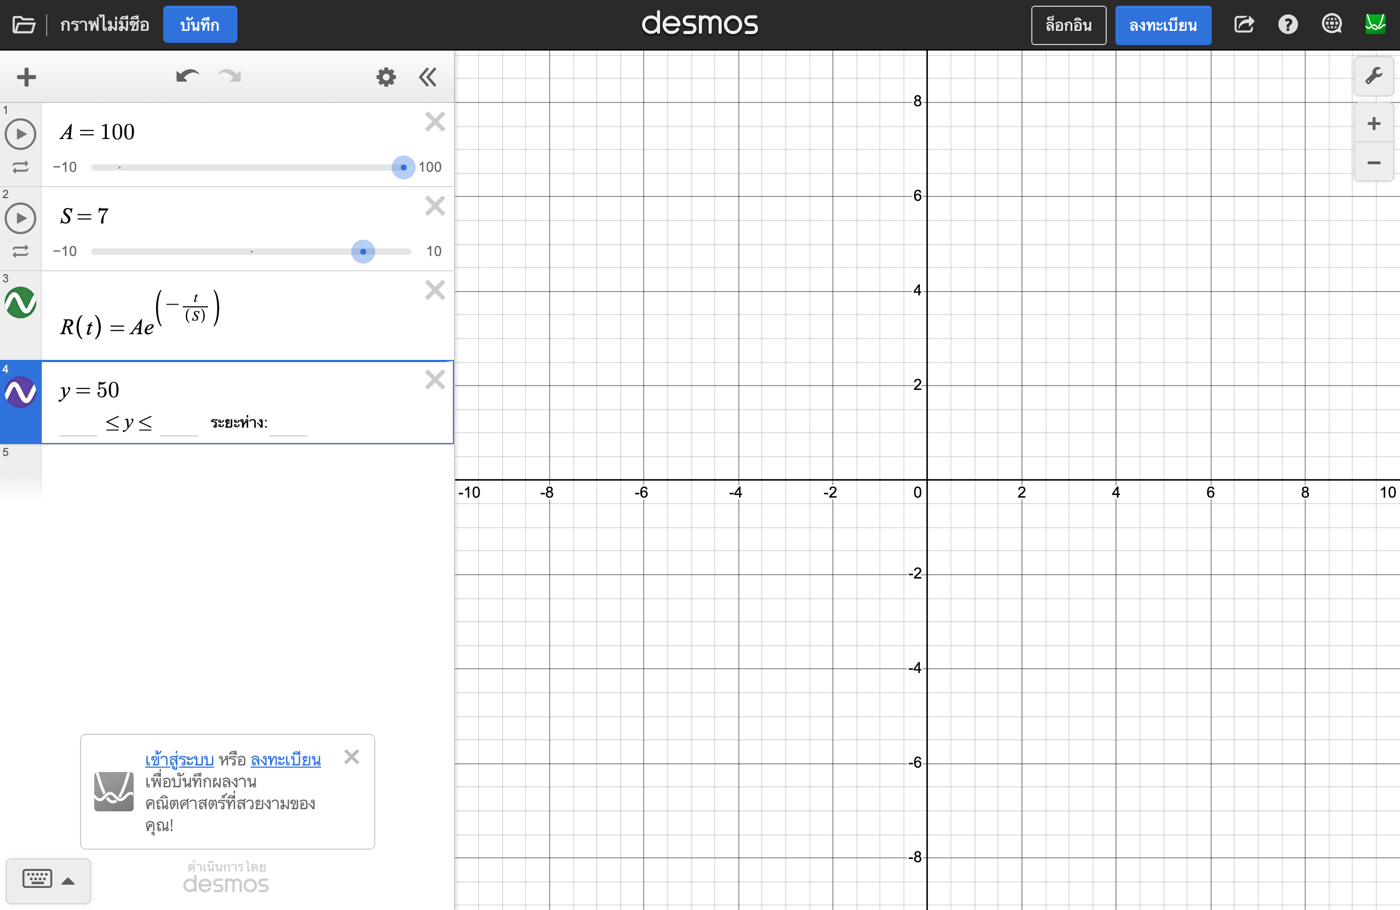
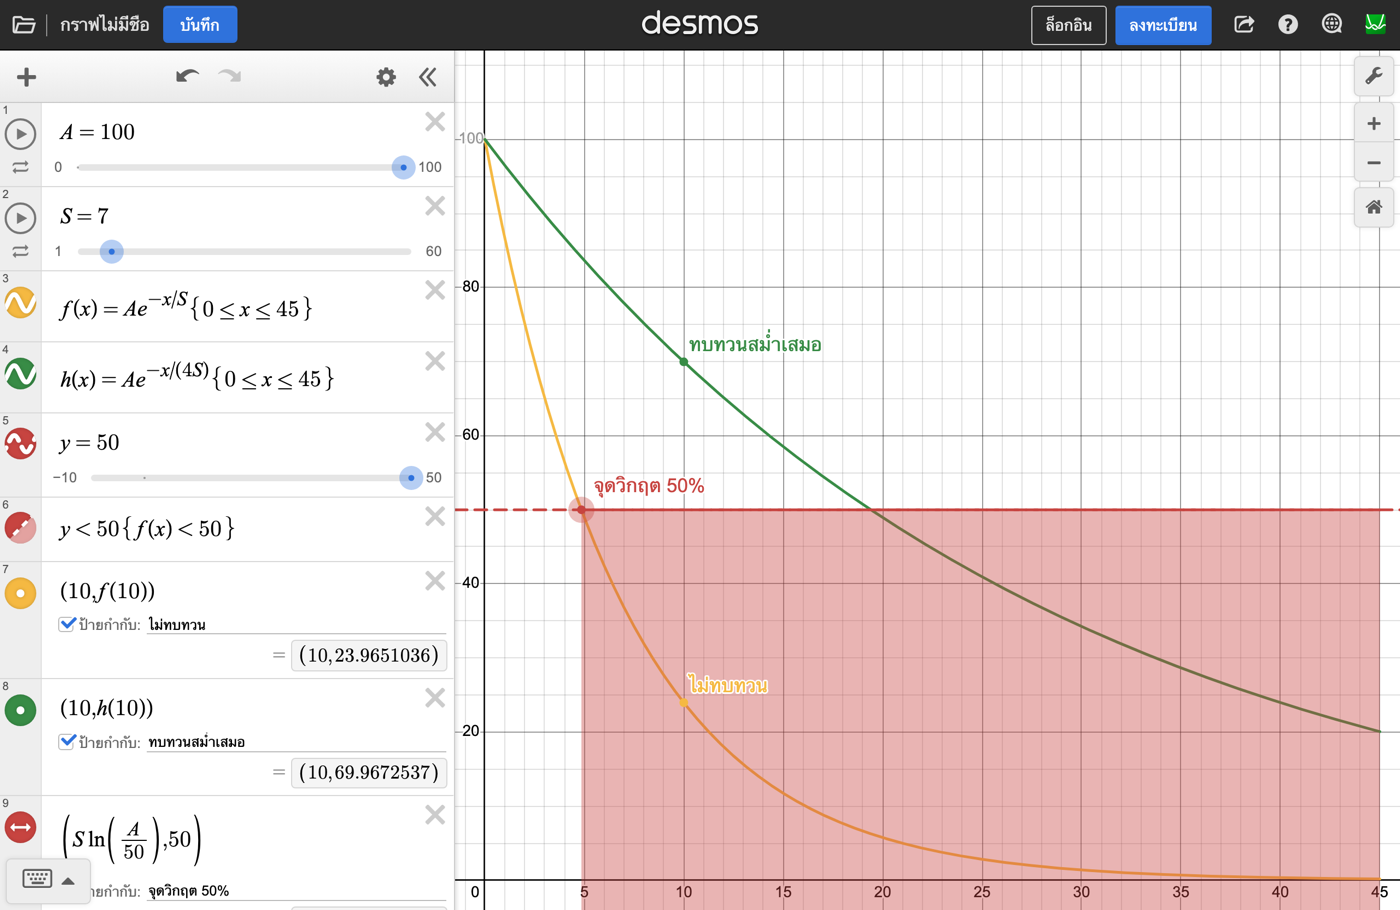
lesson/desmos: better graph — two curves (review vs no-review), shaded crisis zone, labeled 50% point; re-captured via Desmos API

diff --git a/src/lessons.ts b/src/lessons.ts
@@ -41,15 +41,16 @@ export const lessons = [
     heading: 'กราฟอธิบายความสัมพันธ์ทางคณิตศาสตร์',
     body: 'โจทย์: สื่อสาร "เส้นโค้งการลืม" ของนักเรียนตามทฤษฎี Ebbinghaus ให้เป็นกราฟที่เพื่อนเลื่อนค่าดูเองได้จริง — พรอมป์แรกได้กราฟที่ "ถูกต้องแต่ไร้ความหมาย"',
     prompt1: 'สร้างกราฟ y = sin x',
-    prompt2: 'สร้างกราฟเส้นโค้งการลืม R(t) = A·e^(−t/S) กำหนด slider A=100 (ความจำเริ่มต้น %) และ slider S=7 (ความแข็งแรงของความจำ วัน) เพิ่มเส้น y=50 เป็นเส้นวิกฤตการลืม ให้นักเรียนเลื่อน S ดูว่าการทบทวนทำให้กราฟลดช้าลงเพียงใด',
+    prompt2: 'สร้างกราฟเส้นโค้งการลืมใน Desmos: f(x) = A·e^(−x/S) กำหนด slider A=100 (ความจำเริ่มต้น %) และ slider S=7 (ความแข็งแรงของความจำ วัน) เพิ่มเส้นที่สอง h(x) = A·e^(−x/4S) แทนการทบทวนสม่ำเสมอ เส้นประ y=50 เป็นเส้นวิกฤต แรเงาโซนที่ความจำต่ำกว่า 50% และใส่จุด (S·ln(A/50), 50) กำกับว่า "จุดวิกฤต 50%" พร้อมป้ายชื่อเส้นทั้งสอง ให้นักเรียนเลื่อน S ดูว่าการทบทวนทำให้กราฟลดช้าลงเพียงใด',
     asks: [
-      { q: 'อยากได้กราฟที่สื่อ "การลืมบทเรียน" ตามทฤษฎี Ebbinghaus ต้องใช้สมการอะไร?', a: 'ใช้ R(t) = A·e^(−t/S) โดย A คือความจำตอนเรียนจบ (100%) และ S คือความแข็งแรงของความจำเป็นวัน — ยิ่งทบทวน S ยิ่งใหญ่ กราฟยิ่งลดช้า' },
-      { q: 'อยากให้เพื่อนลองเลื่อนค่าดูเองได้ ต้องพิมพ์ยังไงใน Desmos?', a: 'พิมพ์ A=100 และ S=7 ก่อน — Desmos จะสร้าง slider อัตโนมัติ แล้วค่อยนิยามฟังก์ชัน R(t) ที่ใช้ตัวแปรทั้งสอง' },
-      { q: 'แล้วจะชี้ว่า "ต่ำกว่า 50% = วิกฤต" ล่ะ?', a: 'เพิ่มเส้นอ้างอิง y=50 อีกบรรทัด จะเห็นจุดตัด = จำนวนวันก่อนความจำหลุดครึ่งหนึ่ง' },
+      { q: 'อยากได้กราฟที่สื่อ "การลืมบทเรียน" ตามทฤษฎี Ebbinghaus ต้องใช้สมการอะไร?', a: 'ใช้ f(x) = A·e^(−x/S) โดย A คือความจำตอนเรียนจบ (100%) และ S คือความแข็งแรงของความจำเป็นวัน — ยิ่งทบทวน S ยิ่งใหญ่ กราฟยิ่งลดช้า' },
+      { q: 'อยากให้เพื่อนลองเลื่อนค่าดูเองได้ ต้องพิมพ์ยังไงใน Desmos?', a: 'พิมพ์ A=100 และ S=7 ก่อน — Desmos จะสร้าง slider อัตโนมัติ แล้วค่อยนิยามฟังก์ชัน f(x) ที่ใช้ตัวแปรทั้งสอง' },
+      { q: 'แล้วจะชี้ว่า "ต่ำกว่า 50% = วิกฤต" ล่ะ?', a: 'เพิ่มเส้นอ้างอิงเส้นประ y=50 แล้วแรเงาโซน y<50 เฉพาะช่วงที่ f(x)<50 พร้อมจุดตัดที่ x = S·ln(A/50) กำกับว่า "จุดวิกฤต 50%"' },
+      { q: 'อยากเห็นเทียบ "ทบทวน vs ไม่ทบทวน" ในภาพเดียว ทำได้ไหม?', a: 'เพิ่มเส้นที่สอง h(x)=A·e^(−x/4S) แทนการทบทวนสม่ำเสมอ ใส่ป้ายชื่อเส้นทั้งสอง — ช่องห่างระหว่างเส้นที่โตขึ้นตามเวลาคือ "คุณค่าของการทบทวน" ที่เห็นได้ในภาพเดียว' },
     ],
     plate: 'desmos-v2.png',
-    plateAlt: 'หน้าจอ Desmos ภาษาไทยแสดงนิพจน์ A=100, S=7, R(t)=A·e^(−t/S) และเส้น y=50 พร้อมกราฟเส้นโค้งการลืมและ slider สองตัว',
-    plateCap: 'ผลลัพธ์ใหม่ — จับภาพจาก Desmos จริง: เลื่อน S จาก 7 เป็น 30 แล้วเส้นโค้งแบนลงอย่างเห็นได้ชัด',
+    plateAlt: 'หน้าจอ Desmos ภาษาไทยแสดงกราฟเส้นโค้งการลืมสองเส้น ส้ม=ไม่ทบทวน เขียว=ทบทวนสม่ำเสมอ มีเส้นประแดง y=50 โซนแรเงาต่ำกว่า 50% จุดวิกฤต และ slider A, S',
+    plateCap: 'ผลลัพธ์ใหม่ — จาก Desmos จริง: ส้ม=ไม่ทบทวน เขียว=ทบทวนสม่ำเสมอ เส้นประ y=50 พร้อมโซนแรเงาและจุดวิกฤต 50% — เลื่อน slider S เพื่อดูว่าการทบทวนช่วยได้แค่ไหน',
     result1: {
       file: 'desmos-v1.png',
       cap: 'ผลแรก (zero-shot): นิพจน์เดียว เส้นเดียว — สวยแต่ไม่ได้สื่อสารอะไรเลย ไม่มีพารามิเตอร์ให้ลอง ไม่มีจุดเปรียบเทียบ',
@@ -58,7 +59,7 @@ export const lessons = [
     result2: {
       file: '',
       cap: '',
-      summary: 'กราฟโต้ตอบพร้อม slider 2 ตัวและเส้นวิกฤต y=50 — เล่าเรื่องได้ว่าถ้าไม่ทบทวนความจำตกผ่าน 50% ในไม่กี่วัน แต่ถ้าทบทวนเส้นโค้งแบนลง เหมาะไปสอนต่อทันที (นิพจน์: A=100, S=7, R(t)=A·e^(−t/S), y=50 — ลองพิมพ์ตามได้ที่ desmos.com/calculator)',
+      summary: 'กราฟที่ "เล่าเรื่อง" ครบในภาพเดียว: เส้นส้ม (ไม่ทบทวน) ดิ่งผ่านเส้น 50% ในไม่กี่วัน ส่วนเส้นเขียว (ทบทวนสม่ำเสมอ) แบนกว่าชัดเจน โซนแรเงาสีแดงคือช่วงที่ความจำตกต่ำกว่าครึ่งหนึ่ง และจุดวิกฤตบอกตรง ๆ ว่ากี่วันความจำจะหลุดครึ่ง — เลื่อน slider S เพื่อสำรวจต่อได้เอง (ลองพิมพ์ตามได้ที่ desmos.com/calculator)',
     },
     tip: 'ความต่างไม่ได้อยู่ที่กราฟสวยขึ้น แต่อยู่ที่เป้าหมายของกราฟ — พอทำ A และ S เป็น slider กราฟนิ่งก็กลายเป็นเครื่องมือสำรวจที่ผู้เรียนได้เล่นกับคณิตศาสตร์จริง',
     links: [
